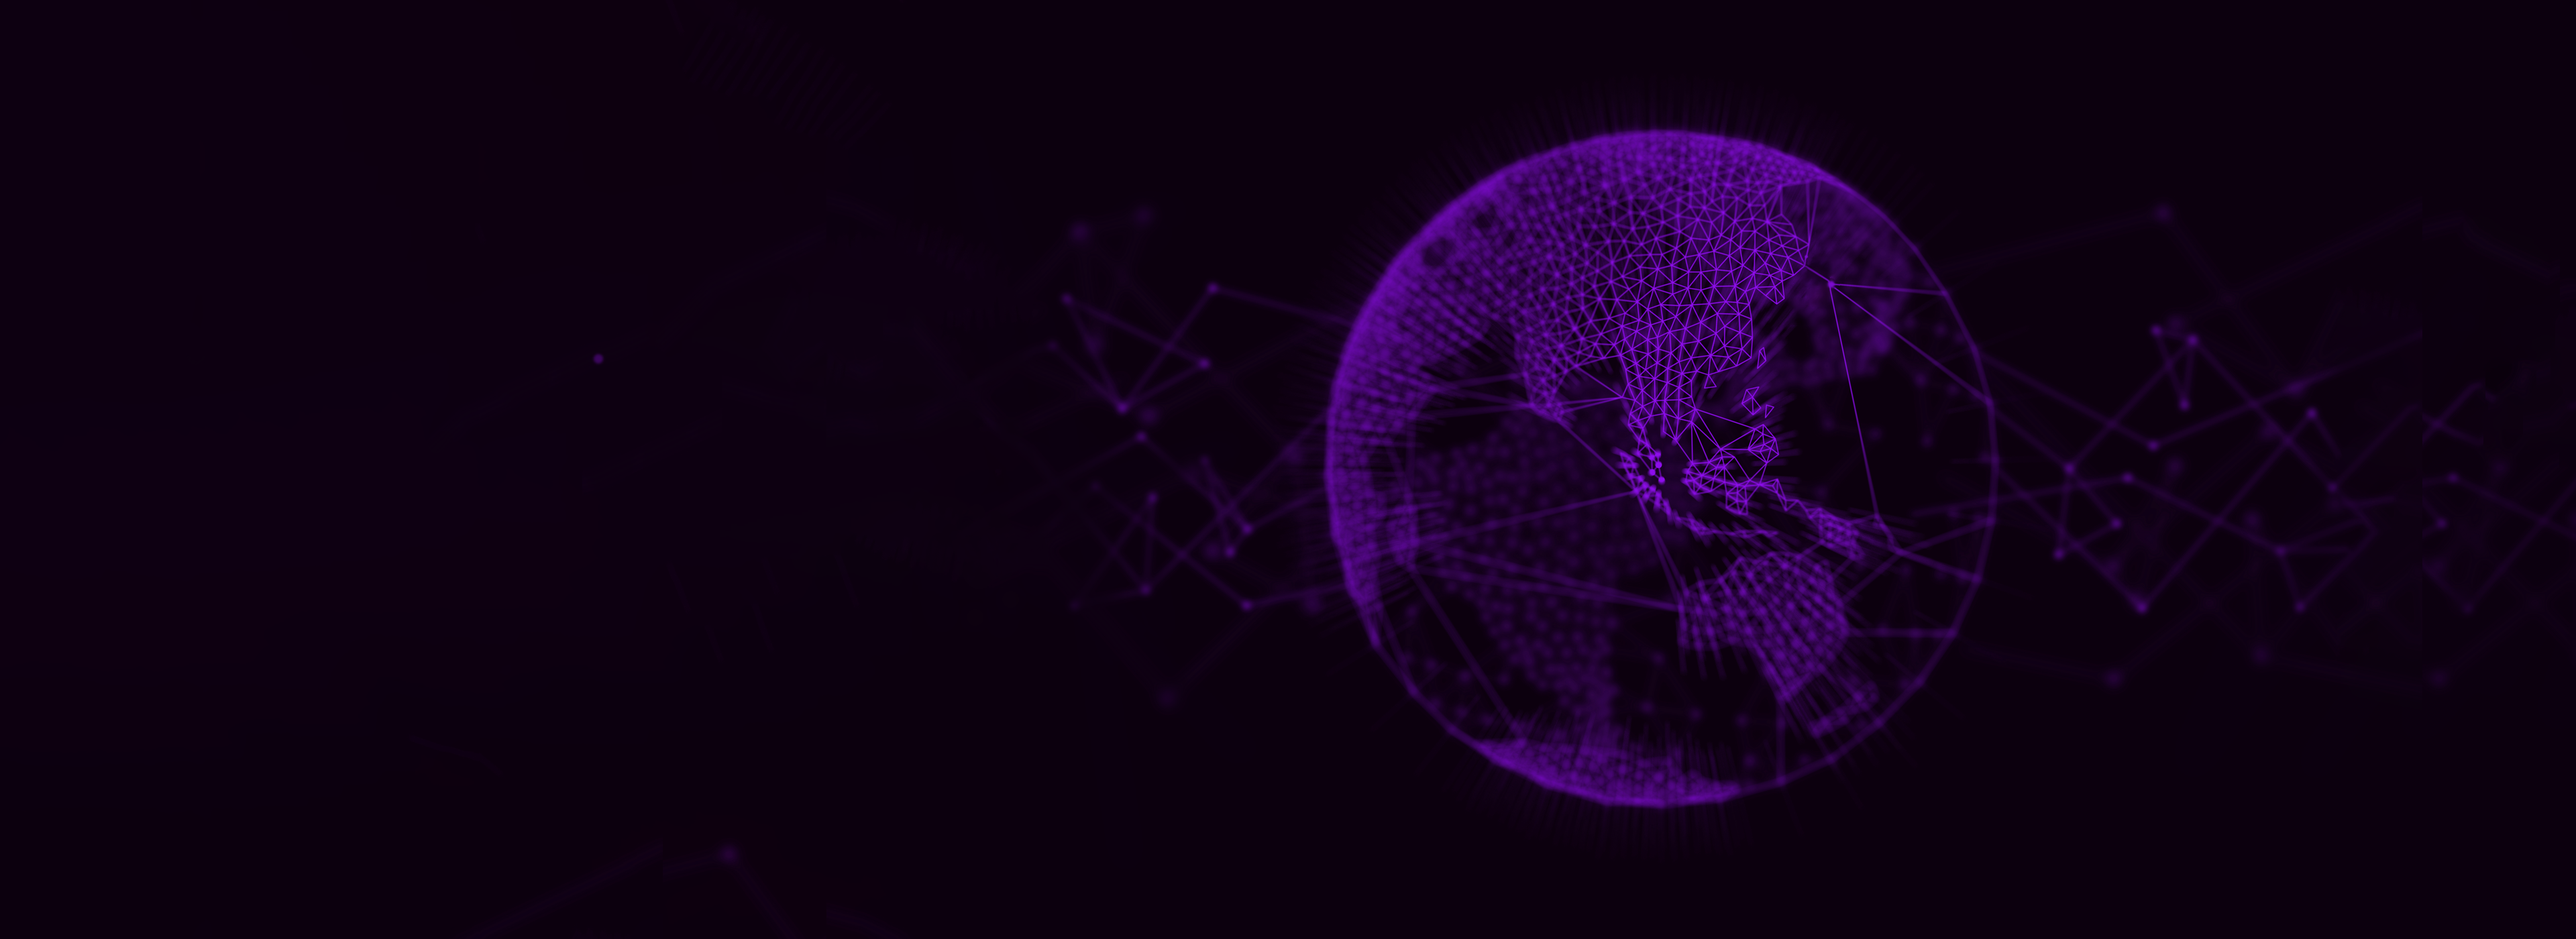
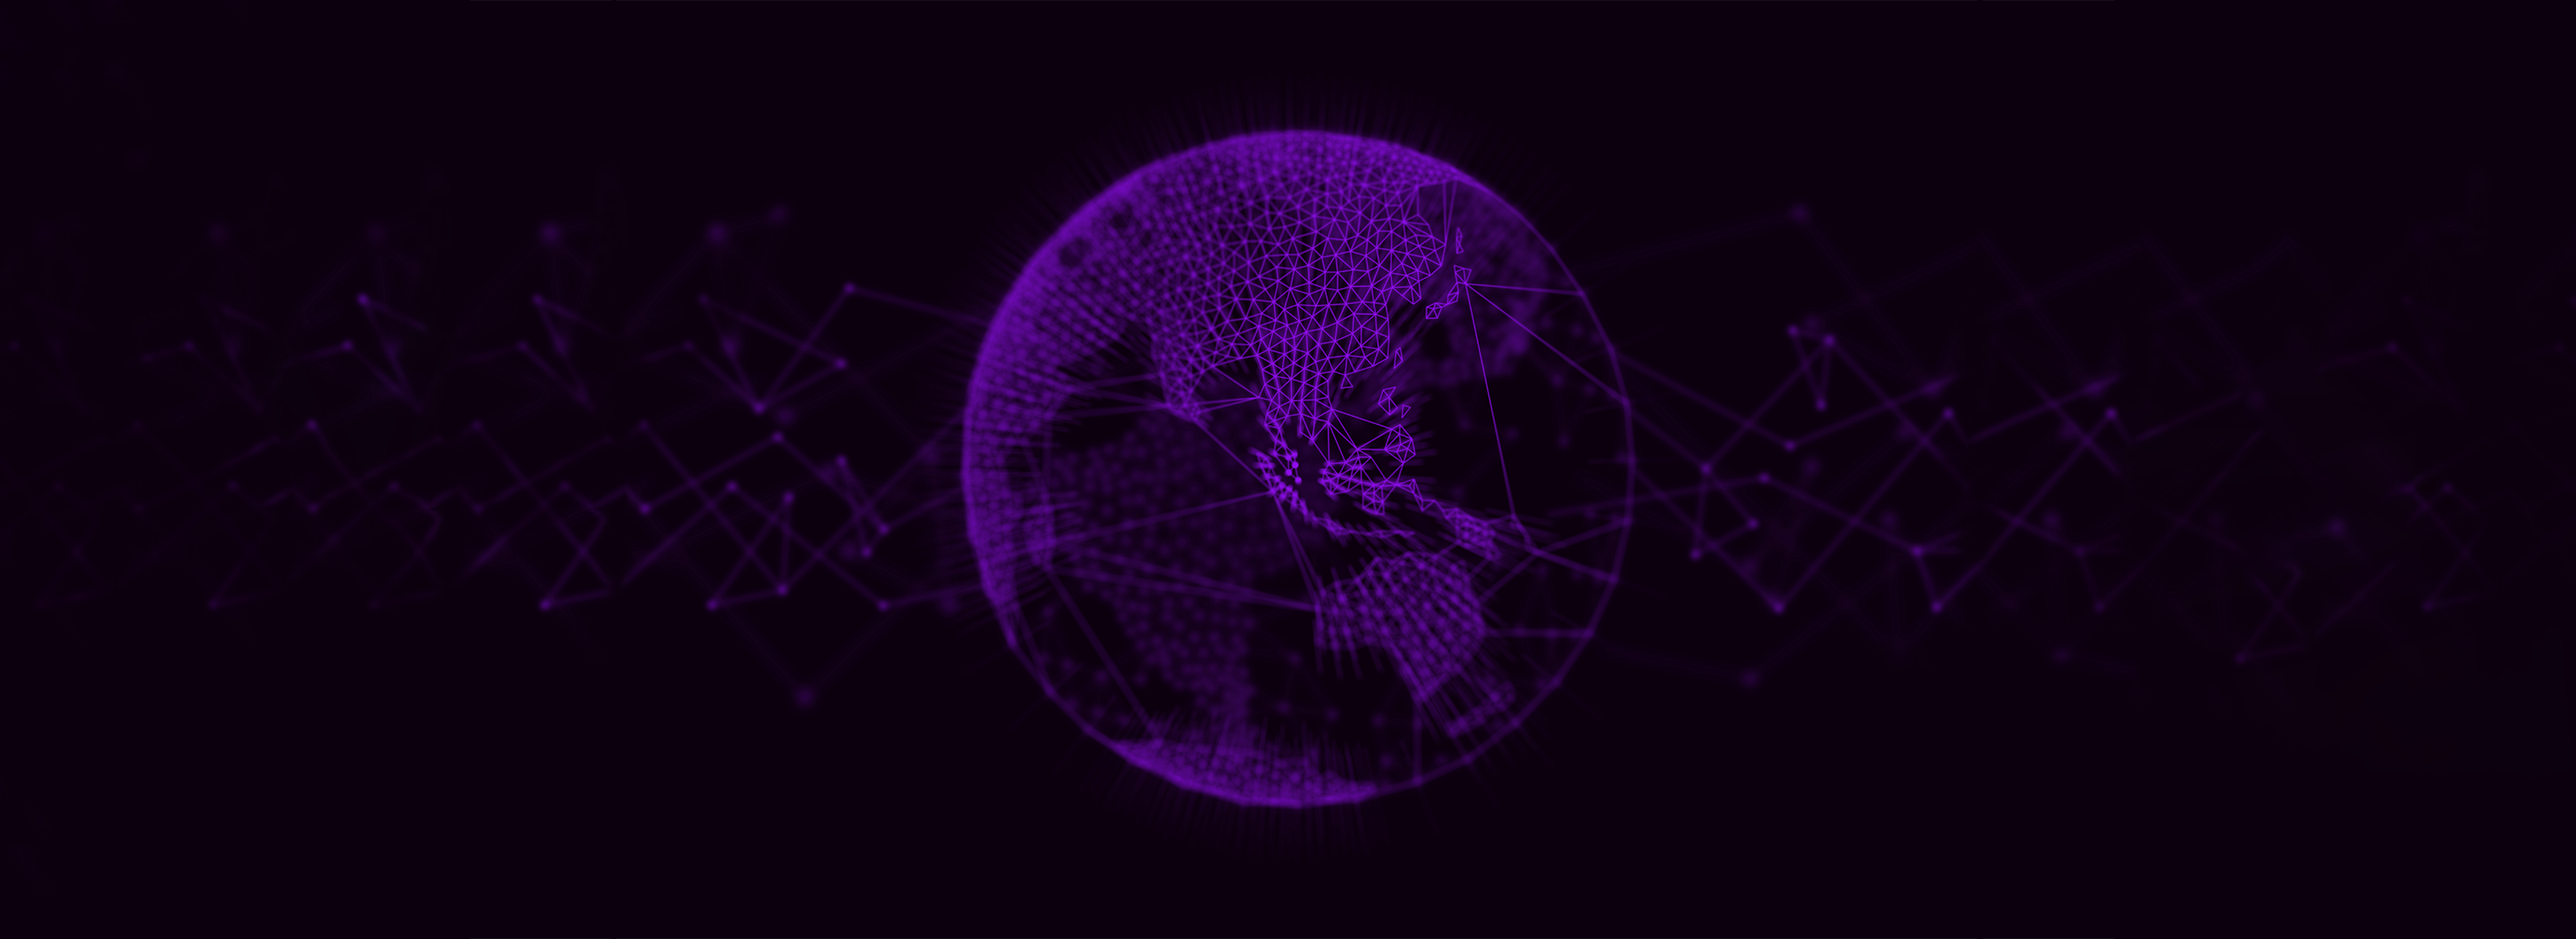
change-headerImage and effect

diff --git a/index.html b/index.html
@@ -94,9 +94,10 @@
         <!-- home -->
         <div class="scroll-point" data-mark="home" style="min-height:969px;">
           <div id="video" class="video">
-            <video autoplay loop muted class="header-video"> 
+            <!-- <video autoplay loop muted class="header-video"> 
               <source src="./img/video.mp4" type="video/mp4">
-           </video>
+           </video> -->
+           <img src="./img/header_img.png" alt="" width="100%" class="header-img">
            <div>
             <p class="banner-txt">
               <span style="font-size:58px;letter-spacing: 16px;font-weight: bold;">MILEVERSE</span> <br>

diff --git a/css/style.scss b/css/style.scss
@@ -167,12 +167,14 @@ body {
 }
 #video {
     position: relative;
-    height: 700px;
+    height: 694px;
     overflow: hidden;
-    // background: url(../img/header_img.png);
-    // background-repeat: no-repeat;
-    // background-size: contain;
-    // background-attachment: fixed;
+}
+.header-img{
+    transition: all ease 4s;
+}
+.header-img.scale{
+    transform:scale(1.4);
 }
 .header-video{
     position: absolute;

diff --git a/css/style.css b/css/style.css
@@ -201,8 +201,18 @@ body {
 
 #video {
   position: relative;
-  height: 700px;
+  height: 694px;
   overflow: hidden;
+}
+
+.header-img {
+  -webkit-transition: all ease 4s;
+  transition: all ease 4s;
+}
+
+.header-img.scale {
+  -webkit-transform: scale(1.4);
+          transform: scale(1.4);
 }
 
 .header-video {

diff --git a/js/helper.js b/js/helper.js
@@ -1,4 +1,5 @@
 $(document).ready(function(){
+    $('.header-img').addClass('scale')
     setTimeout(function(){
         $('.header-txt-color').height('116%');
     },1000)
